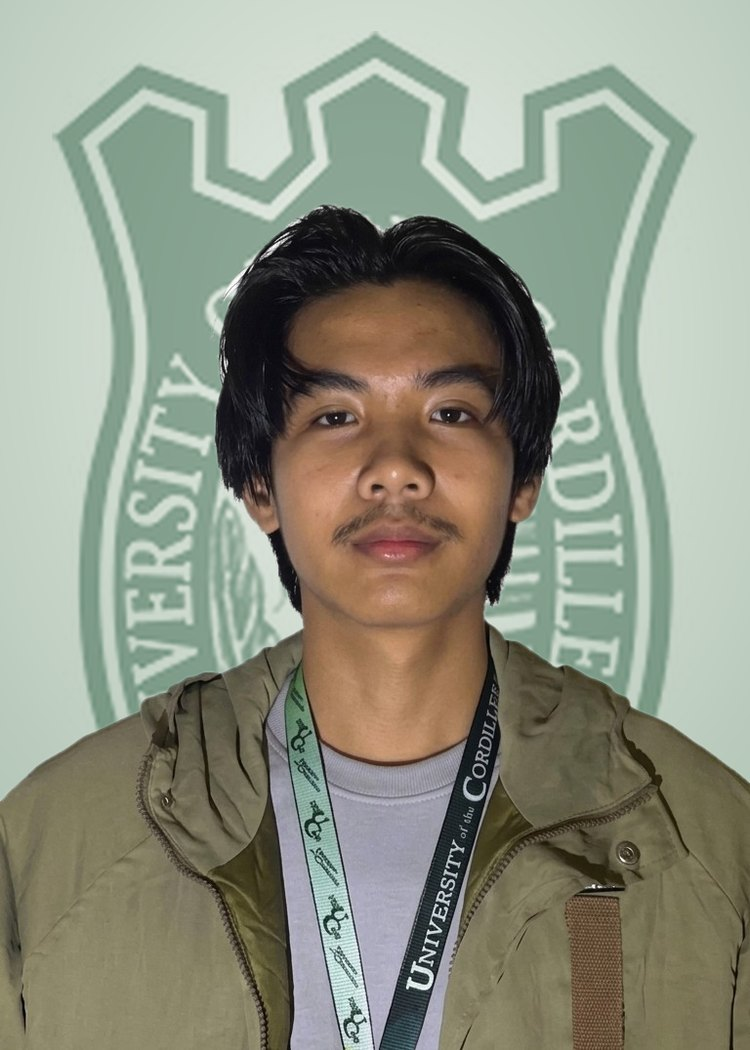
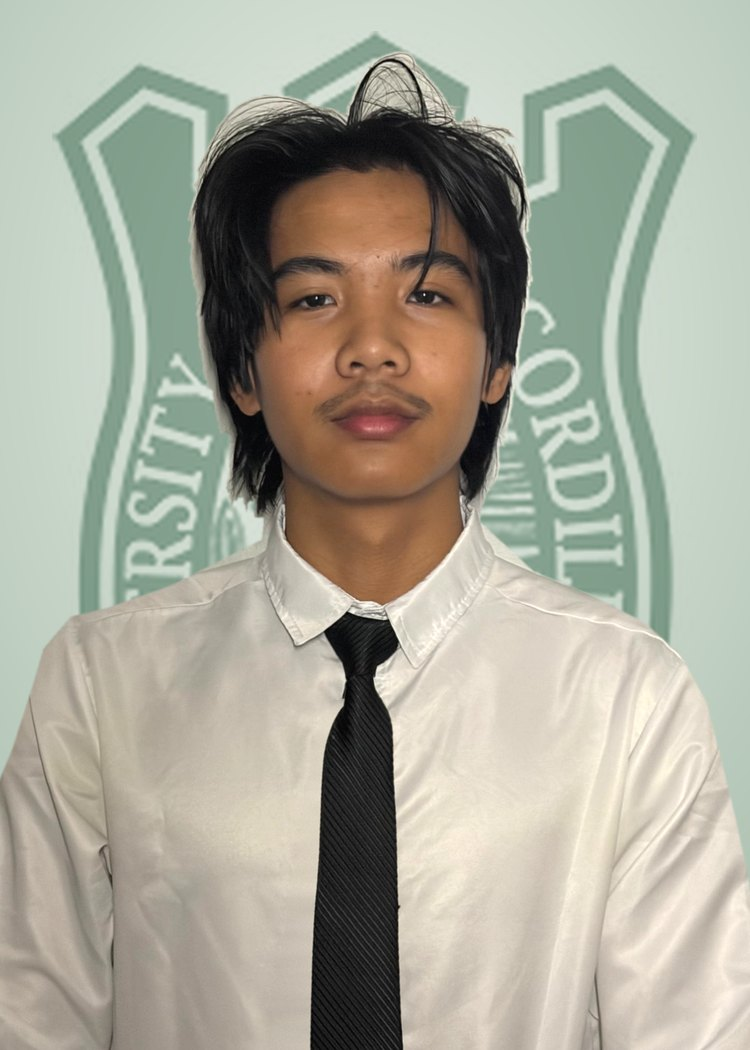
New light-theme portrait and college photo
Light theme: new white-shirt photo, black and white with a red tie. College: white shirt and tie in front of the UC logo.

diff --git a/index.html b/index.html
@@ -93,7 +93,7 @@
       <div class="school-view in">
         <article class="school" id="sch-uc" role="tabpanel" aria-labelledby="rung-uc">
           <svg class="frame-shadow" viewBox="0 0 100 100" preserveAspectRatio="none" aria-hidden="true"><polygon points="1,5 100,0 98,100 0,96"/></svg><svg class="frame-body" viewBox="0 0 100 100" preserveAspectRatio="none" aria-hidden="true"><polygon points="1,5 100,0 98,100 0,96"/></svg>
-          <figure class="school-photo"><img src="assets/images/edu-college.jpg" alt="Kurt with his University of the Cordilleras lanyard, the school logo behind him"></figure>
+          <figure class="school-photo"><img src="assets/images/edu-college.jpg" alt="Kurt in a white shirt and tie, the University of the Cordilleras logo behind him"></figure>
           <div class="school-info">
             <div class="school-head">
               <img class="badge contain" src="assets/images/logo-uc.jpg" alt="University of the Cordilleras logo">
